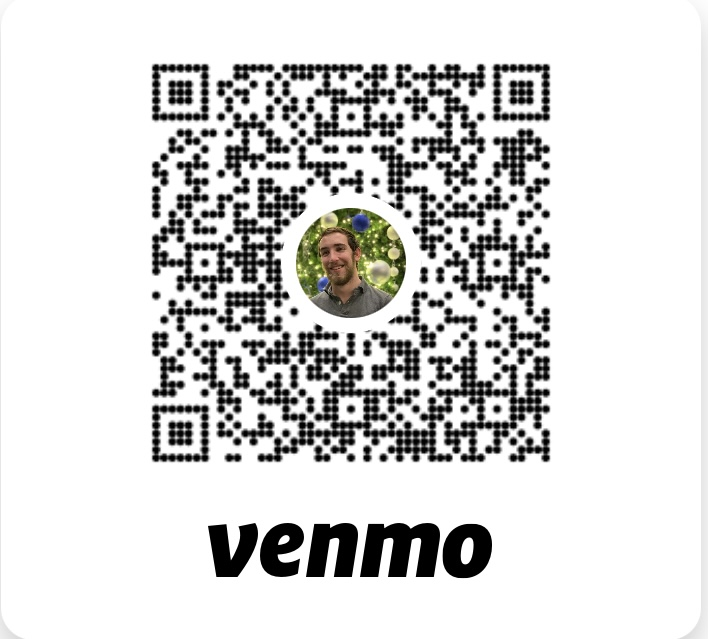
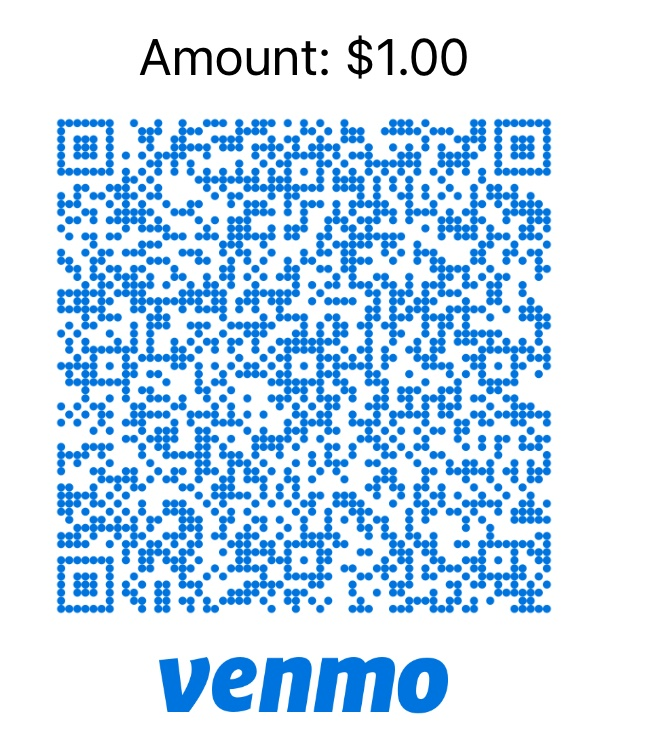
closing in

diff --git a/frontend/src/Components/Homepage/Subscribe.js b/frontend/src/Components/Homepage/Subscribe.js
@@ -2,19 +2,6 @@ import React, {useState, useEffect} from "react";
 
 export default function Subscribe(){
     const [suggestion, toggleSuggestion] = useState(true);
-
-    /*
-    const myInput = document.getElementById('myInput');
-    const myDiv = document.getElementById('myDiv');
-    
-    myInput.addEventListener('input', function() {
-        if (myInput.value.trim() !== '') {
-          myDiv.style.display = 'none';
-        } else {
-          myDiv.style.display = 'block';
-        }
-      });
-    */
    
     return (
         <div className = "subscribeContainer">
@@ -30,15 +17,17 @@ export default function Subscribe(){
                 </input>
                 <label htmlFor ="suggestion label">Suggestion:</label>
                 <div className = "suggestionContainer input st lh2" onClick = {() => toggleSuggestion(!suggestion)}>
-                  {suggestion && <div className = "suggestionOverlay lh2">Please let us know of any events in your community you'd like us to be involved in</div>}
-                  <textarea id = "suggestionInput" className = "st input suggestion lh2" rows="2"></textarea>
+                  {/*suggestion && <div className = "suggestionOverlay lh2">Please let us know of any events in your community you'd like us to be involved in</div>*/}
+                  <textarea id = "suggestionInput" placeholder = "Please let us know of any events in your community you'd like us to be involved in" className = "st input suggestion lh2" rows="2"></textarea>
                 </div>            
             </form>
             
-            <div className = "moreSubText c">
-              <p className = "st email">We will <u>only</u> email you once a month for our newsletter and expenditures report.</p>
-              <p className = "st nospam">We will never send you email asking for money or personal information.</p>
-              <div className = "subscribeButton">Subscribe</div>
+            <div className = "c">
+              <p className = "moreSubText email">We will <u>only</u> email you once a month for our newsletter and expenditures report.</p>
+              <p className = "moreSubText nospam">We will never send you email asking for money or personal information.</p>
+              <div className = "subscribeButton">
+                <div>Subscribe</div>
+              </div>
             </div>
           
           </div>

diff --git a/frontend/src/Components/Homepage/Options.js b/frontend/src/Components/Homepage/Options.js
@@ -1,4 +1,4 @@
-import React, {useState, useEffect} from 'react';
+import React, {useState, useEffect, useCallback} from 'react';
 
 function EventElement({data, type, index}){
 
@@ -11,7 +11,7 @@ function EventElement({data, type, index}){
     return (
         <div class = "event">
             <div className = "eventImage">
-                <img className = "eventImage" src= {imgSrc} />
+                <img className = "eventImage" alt = "Couldn't find event pic!" src= {imgSrc} />
             </div>
             <div className = "eventDetail">
             <div className = "eventLineOne">
@@ -106,9 +106,20 @@ function Option({image, text, select, selected}){
     const [isHovered, setIsHovered] = useState(false);
     const [optionClass, setOptionClass] = useState("option")
   
+    const buildString = useCallback(() => {
+        let classString = "optionDesktop ";
+        if(window.innerWidth < 1200)
+            classString = "optionMobile ";
+        if(isHovered)
+            classString = classString + "optionHovered ";
+        if(image === selected)
+            classString = classString + "optionSelected "
+        return classString;
+    }, [image, isHovered, selected]);
+
     useEffect(() => {
         setOptionClass(buildString);
-    });
+    }, [buildString]);
 
     const handleMouseOver = () => {
       setIsHovered(true);
@@ -118,17 +129,6 @@ function Option({image, text, select, selected}){
       setIsHovered(false);
       setOptionClass(buildString);
     };
-
-    const buildString = () => {
-        let classString = "optionDesktop ";
-        if(window.innerWidth < 1200)
-            classString = "optionMobile ";
-        if(isHovered)
-            classString = classString + "optionHovered ";
-        if(image === selected)
-            classString = classString + "optionSelected "
-        return classString;
-    }
 
     return (
         <div className={optionClass}

diff --git a/frontend/src/css/Modal.css b/frontend/src/css/Modal.css
@@ -26,9 +26,9 @@
     right: 30%;
     width: 40%;
     min-width: 500px;
-    margin-top: 10%;
+    margin-top: 5%;
     margin-bottom: 10%;
-    height: 60%;
+    height: 80%;
     background-color: #eeeeee;
   
     border-radius: 10px;
@@ -74,19 +74,16 @@
   }
   
   .VenmoQR {
-    width: 20vw;
-    height: 20vw;
-  
-    margin-left: 5vw;
-    margin-right: 5vw;
+    width: 40%;
+    height: auto;
     margin-top: 5vh;
   
     border-radius: 20px;
   }
   
   .CashAppQR{
-    width: 17vw;
-    height: 20vw;
+    width: 40%;
+    height: auto;
     margin-top: 5vh;
     border-radius: 20px;
   }
@@ -94,7 +91,7 @@
   .VenmoLogo{
     position: aboslute;
     width: 100%;
-    max-width: 250px;
+    max-width: 200px;
     height: 100%;
   }
   
@@ -102,6 +99,26 @@
     position: aboslute;
     width: 70%;
     height:65%;
+  }
+
+  .modalText{
+    font-size: 20px;
+    font-family: 'AmericanTypewriter';
+    margin-top: 10px;
+  }
+
+  .mobileInfo{
+    margin-top: 5px;
+    font-size: 15px;
+  }
+
+  .closeModal{
+    position: relative;
+    bottom: 30px;
+    width: 30%;
+    margin-left: 35%;
+    margin-top: 20px;
+    text-decoration: underline;
   }
 
   @media screen and (max-width: 600px){

diff --git a/frontend/src/Components/DonateModal.js b/frontend/src/Components/DonateModal.js
@@ -23,7 +23,10 @@ function DonationDetail({type}){
   return (
     <>
       <img src = {img} alt = {type + " is broken"} className = {type + "QR"}/>
-      <p style = {{marginTop: "15px"}}>Select scan in the {type} app.</p>
+      <div className = "modalText">If you're on your phone, long tap on the QR code above</div>
+      <div className = "modalText mobileInfo">(must have {type} installed)</div>
+      <div className = "modalText">or</div>
+      <div className = "modalText">If on desktop, scan this code with the {type} app.</div>
     </>
   )
 }
@@ -53,6 +56,7 @@ export default class DonationModal extends React.Component {
               <DonationOption text = "CashApp" select = {(e) => this.select("CashApp", e)} selected = {this.state.selected} />            
             </div>
             <DonationDetail type = {this.state.selected}/>
+            <div className = "closeModal" onClick = {this.props.close}>I'll donate later -></div>
           </div>
         </div>
       )

diff --git a/frontend/src/css/Subscribe.css b/frontend/src/css/Subscribe.css
@@ -33,7 +33,7 @@
   display: flex;
   flex-direction: column;
   align-items: center;
-  margin-top: 20px;
+  margin-top: 5px;
 }
 
 .subscribeHeader{
@@ -52,6 +52,7 @@ label{
   text-align: left;
   margin-left: 5%;
   font-size: 1vw;
+  margin-top: -5px;
 }
 
 .input{
@@ -115,6 +116,15 @@ label{
   border-radius: 4px;
   border: 2px solid black;
   margin-bottom: 50px;
+
+  display: flex;
+  align-items: center;
+  justify-content: center;
+  max-width: 200px;
+}
+
+.moreSubText{
+  font-size: 18px;
 }
 
 @media screen and (min-width: 1700px){
@@ -148,7 +158,6 @@ label{
     font-size: 20px;
   }
   .moreSubText{
-    margin-left: 10%;
     width: 80%;
   }
   .subscribeButton{

diff --git a/frontend/src/css/options/Spreadsheet.css b/frontend/src/css/options/Spreadsheet.css
@@ -3,7 +3,7 @@
     width: 40%;
     margin-left: 5%;
     box-shadow: -4px 4px 4px 2px; 
-    border-top: 1px solid black;
+    border: 1px solid black;
 }
 
 .financialText .ftOver{
@@ -16,10 +16,11 @@
 
 
 .financialTotals{
+  position: absolute;
 height: 30px;
 width: 100%;
 color: black;
-bottom: 0;
+bottom: 30px;
 display: flex;
 flex-direction: row;
 font-family: 'Coolvetica';
@@ -28,7 +29,7 @@ font-family: 'Coolvetica';
 .spreadSheetContainer{
     display: flex;
     flex-direction: column;
-    
+    position: relative;
     max-width: 70%;
     margin-left: 10%;
     margin-top: 5%;

diff --git a/frontend/src/css/App.css b/frontend/src/css/App.css
@@ -189,6 +189,7 @@
 
 .footer{
   width: 100%;
+  min-height: 100px;
 }
 
 .footerIcons{
@@ -250,5 +251,25 @@
     width: 75%;
     height: 75%;
     min-width: 150px;
+  }
+
+  .quote{
+    min-width: 150px;
+    max-width: 350px;
+    margin-top: 60%;
+    font-size: .75em;
+  
+    font-weight: bold;
+  }
+}
+
+@media screen and (max-width: 400px){
+  .quote{
+    min-width: 150px;
+    max-width: 350px;
+    margin-top: 80%;
+    font-size: .75em;
+  
+    font-weight: bold;
   }
 }

diff --git a/frontend/src/css/options/Goals.css b/frontend/src/css/options/Goals.css
@@ -3,7 +3,7 @@
     margin-top: 5%;
     margin-left: 10%;
     width: 80%;
-    height: 95%;
+    height: 90%;
     display: flex;
     align-items: center;
   }
